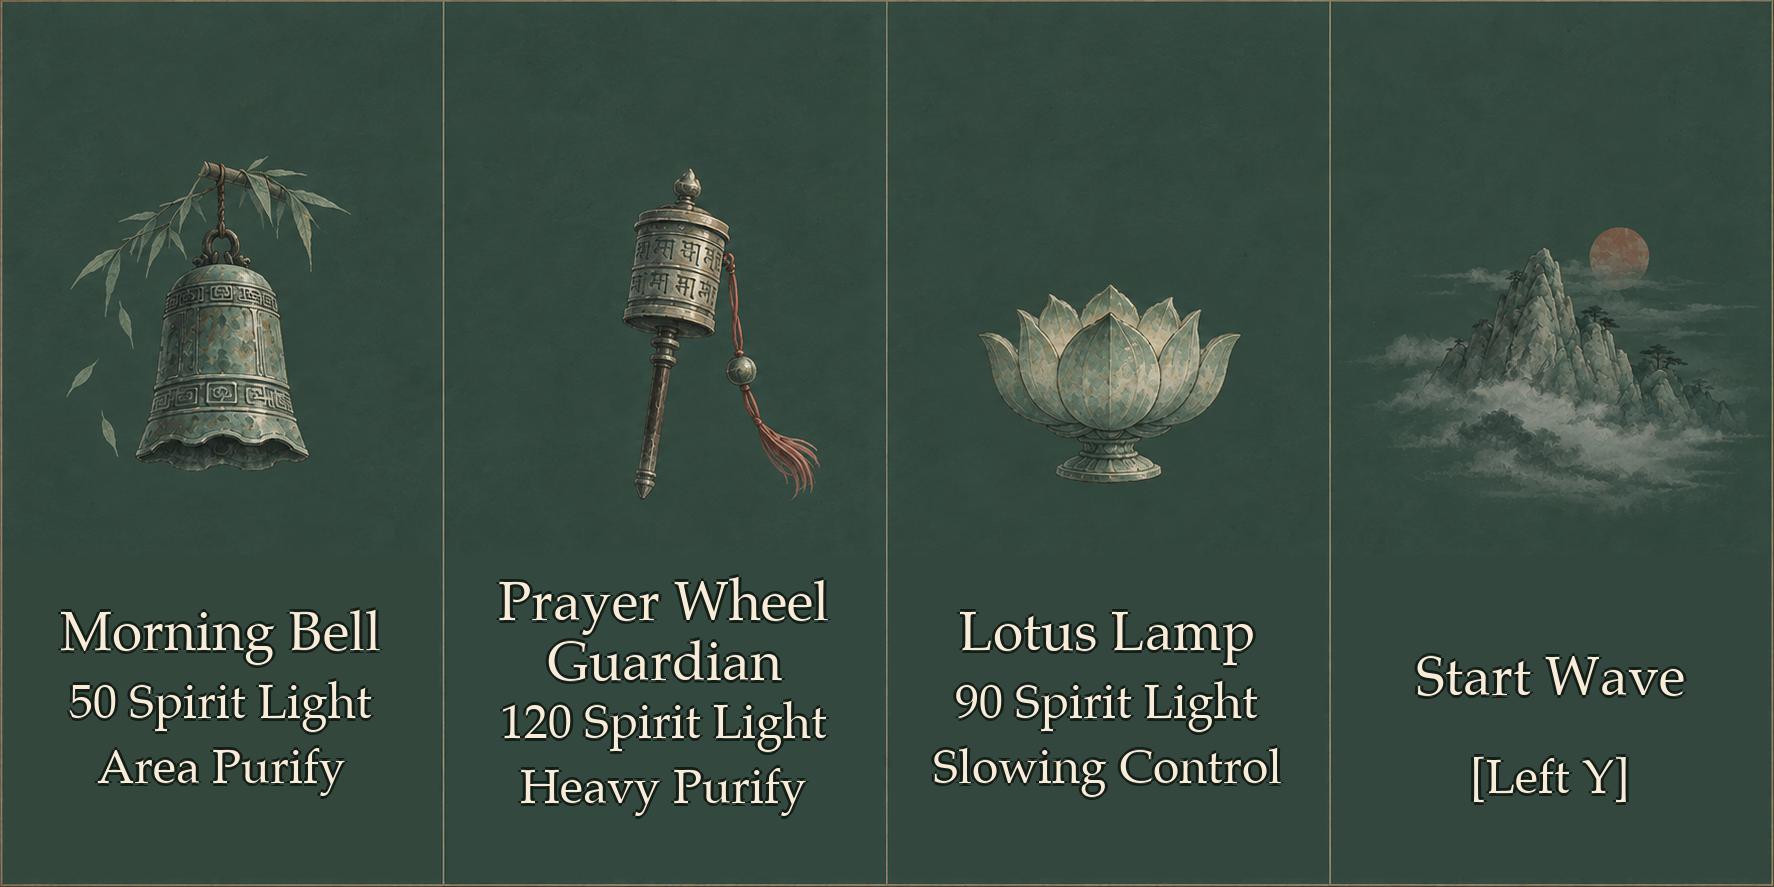
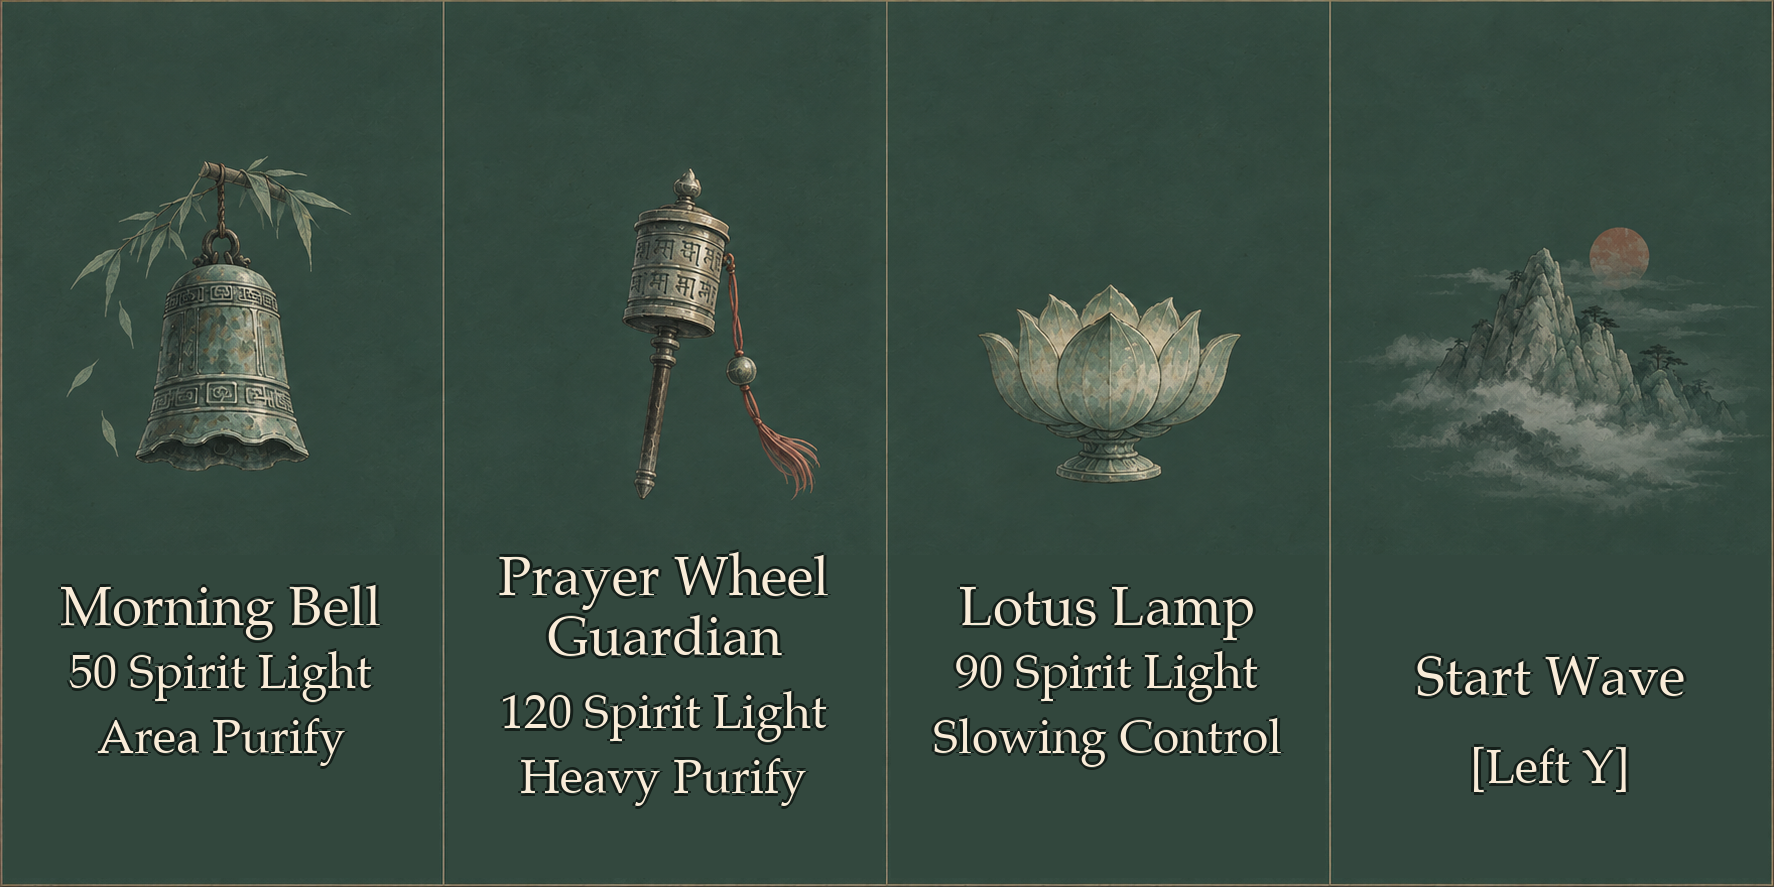
修复 GeneratedV5 三块面板：消除残影、恢复铜色分隔线、修正边距与字号
Briefing（Enemy Intel）：
- 清除范围从 ry-37 起（覆盖所有旧字残影），内容区 ry-82~ry+74
- 名字68px（center=ry-40），描述50px（center=ry+45），间距20px
- 左边距72px（≥7%面板宽度），分隔线恢复至 y=498/666/840/1015/1193
- C# 面板尺寸 0.70×1.05m → 0.80×1.20m；数字槽位坐标等比×1.143

Status（Spirit Light/Heart Lamp/Wave）：
- 使用实测列宽（742/687/743px），字号105px（Heart Lamp=564px<577px列内空间）
- 恢复 x=742 和 x=1429 两条完整竖向铜色分隔线
- 文字居中，8%列宽边距确保无越界

Guide（Two-Hand Controls）：
- 逐行清除（不整块抹除分隔线区域），恢复 y=394/495/595/696 铜色横线
- 左边距109px（≥7%=107px），与原版一致

新增 CaptureScreenshots Editor 方法（batchmode 无 -nographics）：
- Edit 模式下直接调用 GeneratedLotusPanel API，无需 Play 模式
- 输出 /tmp/screenshot_status_briefing.png、screenshot_guide.png、screenshot_stats.png
- Verify PASS 通过

diff --git a/Assets/SpatialTowerDefense/Editor/ProjectSetup.cs b/Assets/SpatialTowerDefense/Editor/ProjectSetup.cs
@@ -1113,5 +1113,148 @@ namespace PicoTowerDefenseEditor
                 current = next;
             }
         }
+
+        // ---------------------------------------------------------------------------
+        // 游戏内面板截图 — 在 Edit 模式（batchmode 不加 -nographics）下运行。
+        // 直接调用 GeneratedLotusPanel API，不启动 Play 模式。
+        // 输出：/tmp/screenshot_status_briefing.png, /tmp/screenshot_guide.png,
+        //       /tmp/screenshot_stats.png
+        // Run via: lockf /tmp/en-unity-A.lock unity -batchmode -buildTarget Android
+        //          -executeMethod PicoTowerDefenseEditor.ProjectSetup.CaptureScreenshots
+        // ---------------------------------------------------------------------------
+        [MenuItem("Tools/Spatial Tower Defense/Capture Panel Screenshots (Edit Mode)")]
+        public static void CaptureScreenshots()
+        {
+            const int W = 1920, H = 1080;
+            string outDir = "/tmp";
+            Directory.CreateDirectory(outDir);
+
+            // 相机位置：设计眼点 (0, 2.12, -2.40)，俯仰 25°（在 arena 局部坐标下）
+            Vector3 eyePos = new Vector3(0f, 2.12f, -2.40f);
+
+            // 创建竞技场根节点（单位矩阵，位于世界原点）
+            var arenaGO = new GameObject("ScreenshotArena");
+            var arenaRoot = arenaGO.transform;
+            arenaRoot.position = Vector3.zero;
+            arenaRoot.rotation = Quaternion.identity;
+            arenaRoot.localScale = Vector3.one;
+
+            // ── 辅助方法：在 arenaRoot 下创建面板根，朝向视点 ──
+            Transform MakePanelRoot(string name, Vector3 localPos)
+            {
+                var t = new GameObject(name).transform;
+                t.SetParent(arenaRoot, false);
+                t.localPosition = localPos;
+                // 令面板的 +Z 朝向摄像机（Billboard 效果）
+                Vector3 toCam = eyePos - localPos;
+                if (toCam.sqrMagnitude > 0.0001f)
+                    t.rotation = Quaternion.LookRotation(toCam.normalized, Vector3.up);
+                return t;
+            }
+
+            // ── 创建 Status 面板 ──
+            var statusRoot = MakePanelRoot("Status Root", new Vector3(0f, 1.90f, 0.26f));
+            GeneratedLotusPanel.Create(statusRoot, "Status Panel", "Status", new Vector2(1.20f, 0.40f), Vector3.zero);
+            var goldD  = GeneratedLotusPanel.Digits(statusRoot, new Vector3(-0.40f, -0.056f, -0.003f), 0.073f);
+            var lifeD  = GeneratedLotusPanel.Digits(statusRoot, new Vector3(0f, -0.056f, -0.003f), 0.067f);
+            var waveD  = GeneratedLotusPanel.Digits(statusRoot, new Vector3(0.40f, -0.056f, -0.003f), 0.067f);
+            goldD.Set("999");
+            lifeD.Set("3");
+            waveD.Set("1");
+
+            // ── 创建 Briefing 面板 ──
+            var briefRoot = MakePanelRoot("Briefing Root", new Vector3(-1.55f, 1.80f, -0.10f));
+            GeneratedLotusPanel.Create(briefRoot, "Briefing Panel", "Briefing", new Vector2(0.80f, 1.20f), Vector3.zero);
+            var briefWaveD = GeneratedLotusPanel.Digits(briefRoot, new Vector3(0f, 0.383f, -0.003f), 0.045f);
+            briefWaveD.Set("1/25");
+            float[] rows = { 0.275f, 0.387f, 0.498f, 0.610f, 0.723f, 0.839f };
+            var enemyDs = new LotusDigitField[6];
+            for (int i = 0; i < 6; i++)
+            {
+                enemyDs[i] = GeneratedLotusPanel.Digits(briefRoot,
+                    new Vector3(0.188f, (0.5f - rows[i]) * 1.20f, -0.003f), 0.056f, 3);
+                enemyDs[i].Set((i + 2).ToString());
+            }
+
+            // ── 创建 Guide 面板（约 (1.26, 1.82, -0.62)）──
+            // InteractionGuidePositionTowardViewer() 计算结果
+            Vector3 guideBasePos = new Vector3(1.55f, 1.75f, -0.22f);
+            Vector3 dirToViewer = (eyePos - guideBasePos).normalized;
+            Vector3 guideLocalPos = guideBasePos + dirToViewer * 0.50f;
+            var guideRoot = MakePanelRoot("Guide Root", guideLocalPos);
+            GeneratedLotusPanel.Create(guideRoot, "Guide Panel", "Guide", new Vector2(0.96f, 0.64f), Vector3.zero);
+
+            // ── 创建 Stats（塔悬浮信息）面板，放在游戏板上方 ──
+            var statsRoot = MakePanelRoot("Stats Root", new Vector3(0f, 1.50f, 0.50f));
+            GeneratedLotusPanel.Create(statsRoot, "Stats Panel", "Stats", new Vector2(0.88f, 0.44f), Vector3.zero);
+            float[] cols = { 0.15f, 0.38f, 0.61f, 0.84f };
+            var towerDs = new LotusDigitField[4];
+            for (int i = 0; i < 4; i++)
+            {
+                towerDs[i] = GeneratedLotusPanel.Digits(statsRoot,
+                    new Vector3((cols[i] - 0.5f) * 0.88f, -0.044f, -0.003f), 0.056f, 5);
+            }
+            towerDs[0].Set("3");      // Level
+            towerDs[1].Set("150");    // Attack
+            towerDs[2].Set("1.5");    // Speed
+            towerDs[3].Set("3.0");    // Range
+
+            // ── 摄像机设置 ──
+            var camGO = new GameObject("ScreenshotCam");
+            var cam = camGO.AddComponent<Camera>();
+            cam.fieldOfView = 80f;
+            cam.nearClipPlane = 0.1f;
+            cam.farClipPlane = 20f;
+            cam.clearFlags = CameraClearFlags.SolidColor;
+            cam.backgroundColor = new Color(0.08f, 0.10f, 0.09f, 1f);
+            cam.cullingMask = ~0;
+
+            var rt = new RenderTexture(W, H, 24, RenderTextureFormat.ARGB32);
+            rt.antiAliasing = 2;
+            cam.targetTexture = rt;
+
+            // ── 截图函数 ──
+            void Shoot(string filename, Vector3 camLocalPos, Vector3 lookAtLocalPos)
+            {
+                cam.transform.position = arenaRoot.TransformPoint(camLocalPos);
+                cam.transform.LookAt(arenaRoot.TransformPoint(lookAtLocalPos), Vector3.up);
+                cam.Render();
+                RenderTexture.active = rt;
+                var tex = new Texture2D(W, H, TextureFormat.RGB24, false);
+                tex.ReadPixels(new Rect(0, 0, W, H), 0, 0);
+                tex.Apply();
+                RenderTexture.active = null;
+                byte[] png = tex.EncodeToPNG();
+                string fullPath = Path.Combine(outDir, filename);
+                File.WriteAllBytes(fullPath, png);
+                UnityEngine.Object.DestroyImmediate(tex);
+                Debug.Log($"[Screenshot] Saved {fullPath}");
+            }
+
+            // 截图 1：Status + Briefing（眼点俯视前方两块面板）
+            Shoot("screenshot_status_briefing.png",
+                  eyePos,
+                  new Vector3(-0.775f, 1.85f, 0.10f));
+
+            // 截图 2：Guide（右侧面板，相机偏右）
+            Shoot("screenshot_guide.png",
+                  eyePos,
+                  guideLocalPos);
+
+            // 截图 3：Stats 塔悬浮面板（靠近游戏板）
+            Shoot("screenshot_stats.png",
+                  new Vector3(0f, 1.90f, -1.20f),
+                  new Vector3(0f, 1.50f, 0.50f));
+
+            // 清理临时对象
+            cam.targetTexture = null;
+            rt.Release();
+            UnityEngine.Object.DestroyImmediate(rt);
+            UnityEngine.Object.DestroyImmediate(camGO);
+            UnityEngine.Object.DestroyImmediate(arenaGO);
+
+            Debug.Log("[Screenshot] All 3 panel screenshots saved to /tmp/");
+        }
+
     }
 }

diff --git a/Assets/SpatialTowerDefense/Runtime/SpatialTowerDefenseGame.cs b/Assets/SpatialTowerDefense/Runtime/SpatialTowerDefenseGame.cs
@@ -1778,15 +1778,16 @@ namespace PicoTowerDefense
         private void BuildWaveBriefingDisplay()
         {
             _waveBriefingRoot = PanelRoot("Next Wave Enemy Skill Briefing", new Vector3(-1.55f, 1.80f, -0.10f));
-            // 等比放大 ×1.40：0.50×0.75 → 0.70×1.05m，比例 0.667:1 与图片 1024×1536 一致。
-            GeneratedLotusPanel.Create(_waveBriefingRoot, "Generated Enemy Briefing", "Briefing", new Vector2(0.70f, 1.05f), Vector3.zero);
-            // 波次数字：Y 按 ×1.40 缩放 0.239→0.335，高度 0.028→0.039。
-            _briefingWaveDigits = GeneratedLotusPanel.Digits(_waveBriefingRoot, new Vector3(0f, 0.335f, -0.003f), 0.039f);
+            // 等比放大 ×1.143：0.70×1.05 → 0.80×1.20m，比例 0.667:1 与图片 1024×1536 一致。
+            // 扩大至 0.80×1.20 以满足 VR 可读性规格 C（d=2.79m，68px名字/50px描述）。
+            GeneratedLotusPanel.Create(_waveBriefingRoot, "Generated Enemy Briefing", "Briefing", new Vector2(0.80f, 1.20f), Vector3.zero);
+            // 波次数字：Y 按 ×1.143 缩放 0.335→0.383，高度 0.039→0.045。
+            _briefingWaveDigits = GeneratedLotusPanel.Digits(_waveBriefingRoot, new Vector3(0f, 0.383f, -0.003f), 0.045f);
             float[] rows = { 0.275f, 0.387f, 0.498f, 0.610f, 0.723f, 0.839f };
             for (int i = 0; i < 6; i++)
-                // 敌人计数：X ×1.40 0.1175→0.1645，Y 乘数 0.75→1.05，高度 0.035→0.049。
+                // 敌人计数：X ×1.143 0.1645→0.188，Y 乘数 1.05→1.20，高度 0.049→0.056。
                 _enemyCountDigits[i] = GeneratedLotusPanel.Digits(_waveBriefingRoot,
-                    new Vector3(0.1645f, (0.5f - rows[i]) * 1.05f, -0.003f), 0.049f, 3);
+                    new Vector3(0.188f, (0.5f - rows[i]) * 1.20f, -0.003f), 0.056f, 3);
         }
 
         private void BuildInteractionGuide()
